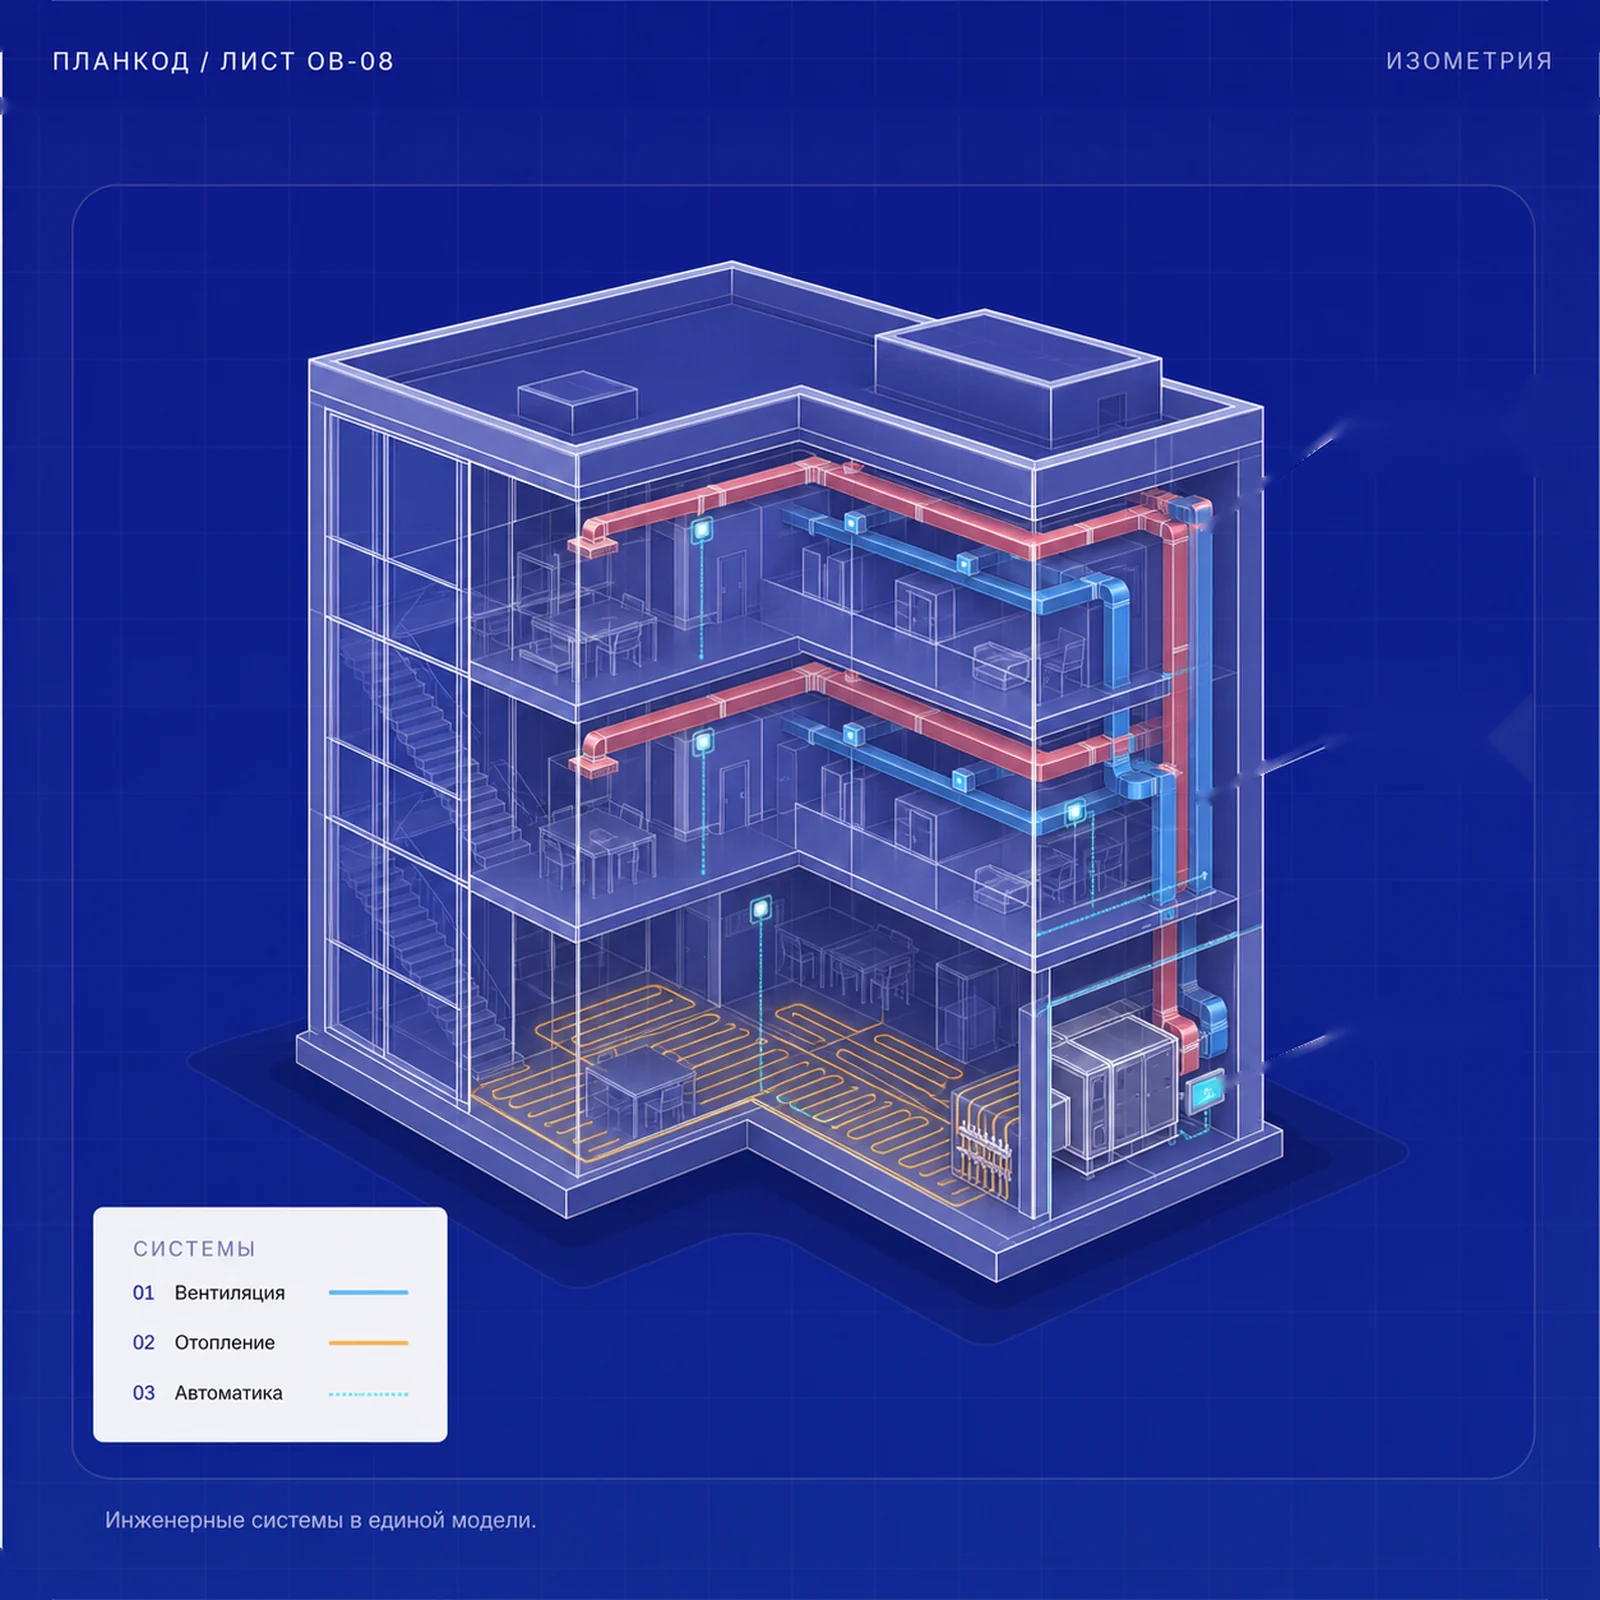
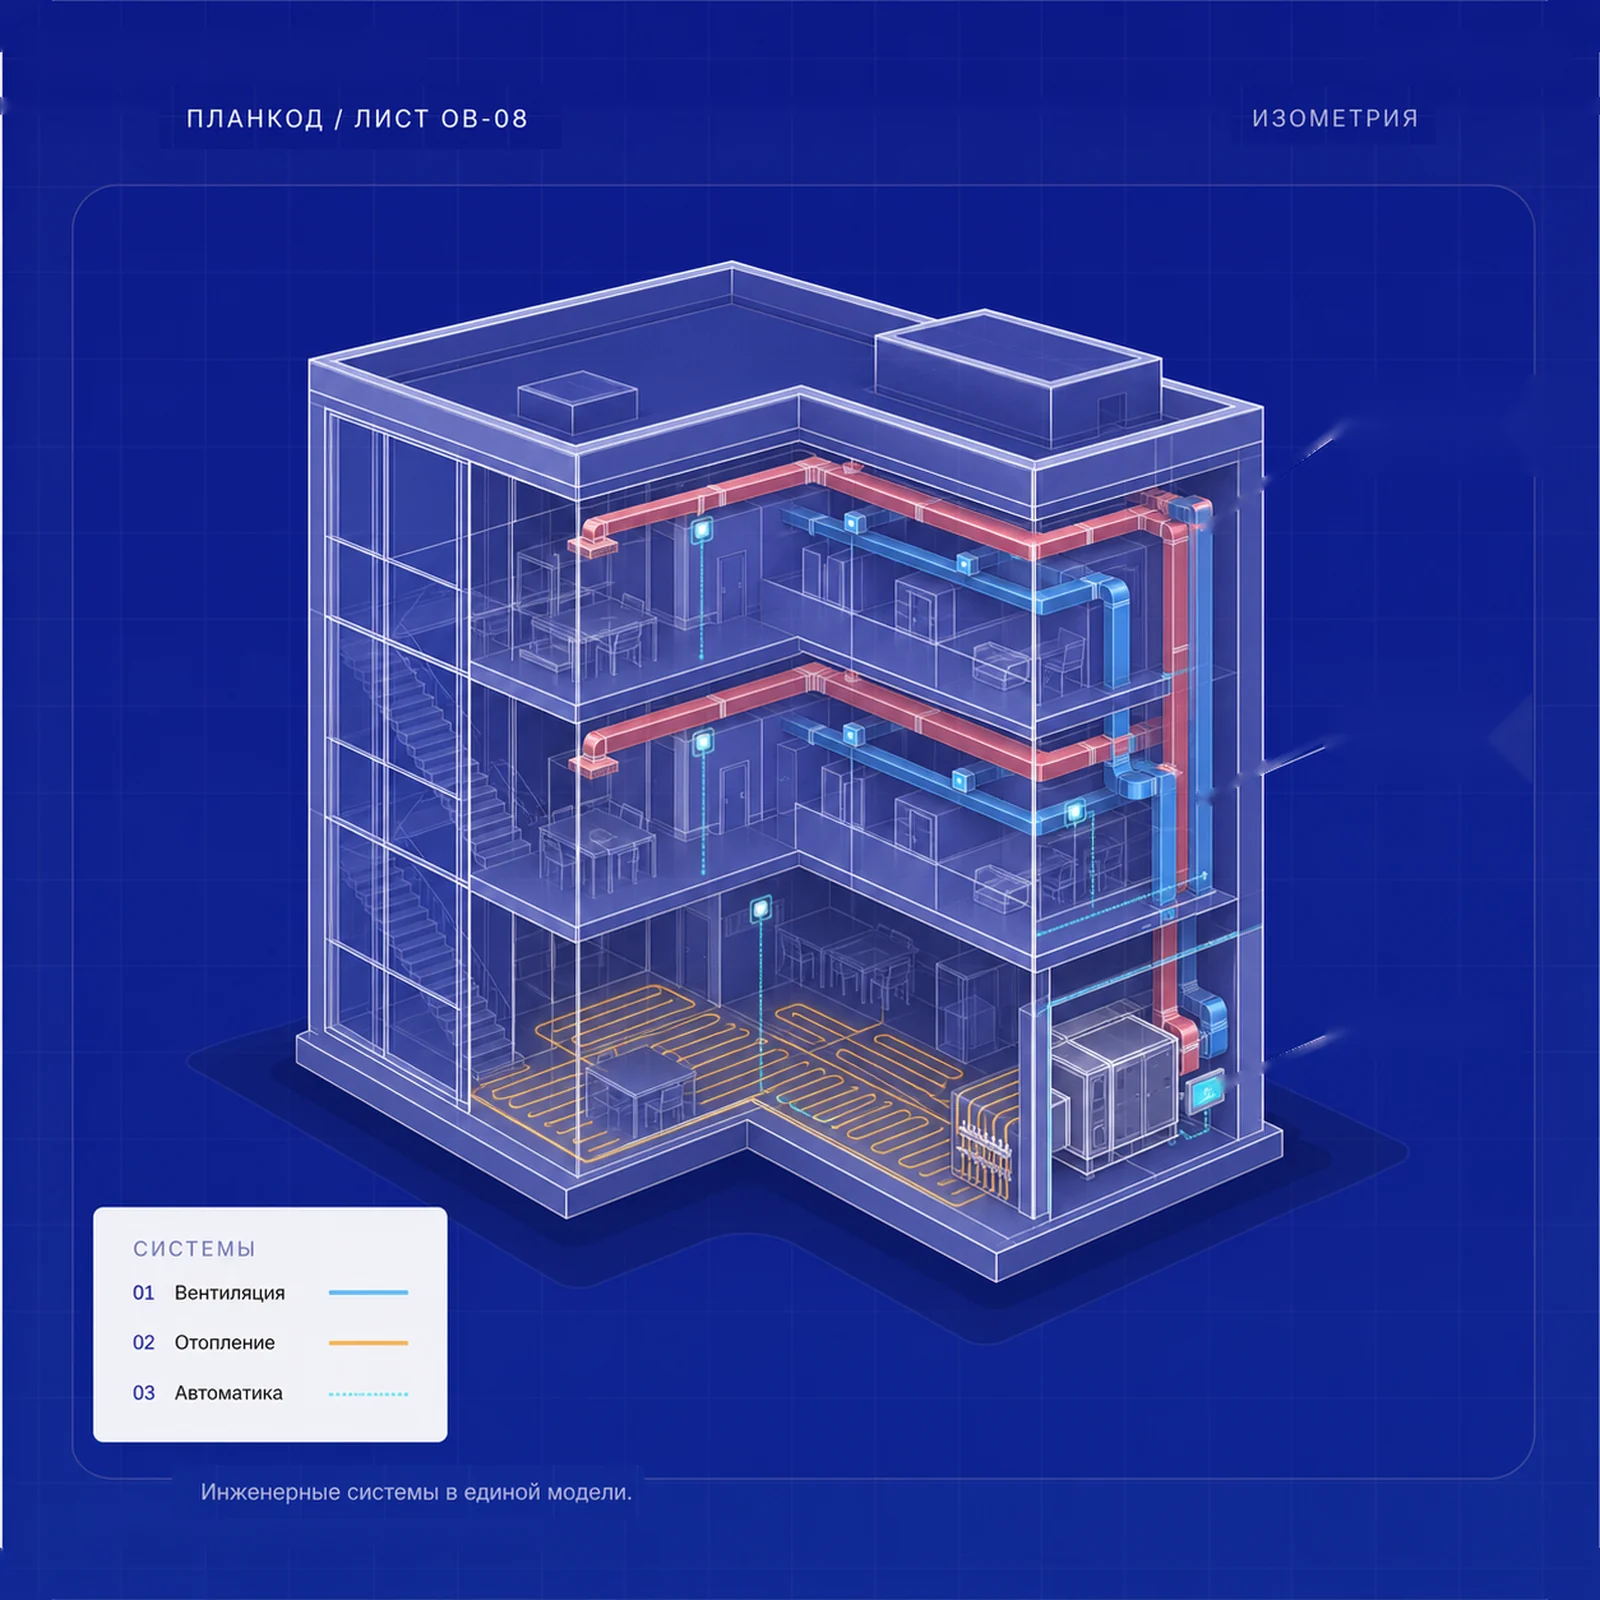
hero: nudge baked-in text further from the edges and switch to full-bleed cover fill on wide desktop (>1280px) where it's safe, keeping the safe contain fallback below that so text never crops at any width

diff --git a/app/globals.css b/app/globals.css
@@ -60,7 +60,7 @@ a { color:inherit; text-decoration:none; }
 .duct-badge i { flex:0 0 auto; width:20px; height:20px; border-radius:6px; background:#eceef4; }
 .duct-badge strong { display:block; font-size:12px; font-weight:600; color:var(--ink); line-height:1.25; }
 .duct-badge span { display:block; font-size:10px; color:#8a8c93; margin-top:2px; }
-.hero-system-image { position:absolute; inset:26px; z-index:1; width:calc(100% - 52px); height:calc(100% - 52px); object-fit:contain; display:block; }
+.hero-system-image { position:absolute; inset:0; z-index:1; width:100%; height:100%; object-fit:cover; display:block; }
 
 .equipment-preview { padding:118px 0 130px; }
 .section-head { display:grid; grid-template-columns:.45fr 1.55fr; align-items:start; margin-bottom:58px; }
@@ -92,8 +92,9 @@ a { color:inherit; text-decoration:none; }
 .climate-art span { position:relative; font-size:88px; letter-spacing:-.09em; }.climate-art i { position:relative; align-self:start; padding-top:16px; color:#7775ef; font-size:34px; font-style:normal; }
 
 @media (hover:hover) { .header nav a,.quiet-link { transition:color .2s; }.header nav a:hover,.quiet-link:hover { color:var(--blue); }.equipment-card { transition:transform .25s; }.equipment-card:hover { transform:translateY(-6px); } }
-@media (max-width:1040px) { .header nav{display:none}.hero{grid-template-columns:1fr}.hero-copy,.hero-system{min-height:690px}.equipment-grid{grid-template-columns:1fr 1fr}.section-head{grid-template-columns:1fr;gap:35px} }
-@media (max-width:640px) { .shell{width:calc(100% - 24px)}.header{height:72px}.header-button{font-size:0;padding-left:7px;gap:0}.hero{gap:10px}.hero-copy{min-height:690px;padding:30px 22px 0}.eyebrow{margin-bottom:42px}.eyebrow b{display:none}.hero h1{font-size:43px}.hero-copy>p{font-size:14px}.hero-actions{align-items:flex-start;flex-direction:column;gap:19px}.trust-strip{margin:auto -22px 0;padding:0 22px}.trust-strip span{padding:7px;font-size:9px}.hero-system{min-height:610px}.hero-system-image{inset:16px;width:calc(100% - 32px);height:calc(100% - 32px)}.object-schematic{inset:80px 15px 110px 13%}.object-card{left:15px;bottom:94px;transform:scale(.86);transform-origin:left bottom}.spec-badge{min-width:112px}.spec-badge-one{right:13px}.spec-badge-two{left:18px;top:260px}.spec-badge-three{right:13px;bottom:138px}.equipment-preview{padding:82px 0}.section-head h2{font-size:37px}.equipment-grid{grid-template-columns:1fr}.equipment-card{min-height:430px} }
+@media (max-width:1280px) { .hero-system-image{object-fit:contain} }
+@media (max-width:1040px) { .header nav{display:none}.hero{grid-template-columns:1fr}.hero-copy,.hero-system{min-height:690px}.hero-system-image{position:absolute;inset:26px;width:calc(100% - 52px);height:calc(100% - 52px);object-fit:contain}.equipment-grid{grid-template-columns:1fr 1fr}.section-head{grid-template-columns:1fr;gap:35px} }
+@media (max-width:640px) { .shell{width:calc(100% - 24px)}.header{height:72px}.header-button{font-size:0;padding-left:7px;gap:0}.hero{gap:10px}.hero-copy{min-height:690px;padding:30px 22px 0}.eyebrow{margin-bottom:42px}.eyebrow b{display:none}.hero h1{font-size:43px}.hero-copy>p{font-size:14px}.hero-actions{align-items:flex-start;flex-direction:column;gap:19px}.trust-strip{margin:auto -22px 0;padding:0 22px}.trust-strip span{padding:7px;font-size:9px}.hero-system{min-height:610px}.hero-system-image{inset:16px;width:calc(100% - 32px);height:calc(100% - 32px);object-fit:contain}.object-schematic{inset:80px 15px 110px 13%}.object-card{left:15px;bottom:94px;transform:scale(.86);transform-origin:left bottom}.spec-badge{min-width:112px}.spec-badge-one{right:13px}.spec-badge-two{left:18px;top:260px}.spec-badge-three{right:13px;bottom:138px}.equipment-preview{padding:82px 0}.section-head h2{font-size:37px}.equipment-grid{grid-template-columns:1fr}.equipment-card{min-height:430px} }
 
 /* Trust bento */
 .micro-label { color:#7a7c84; font-size:9px; line-height:1.35; text-transform:uppercase; letter-spacing:.14em; }
